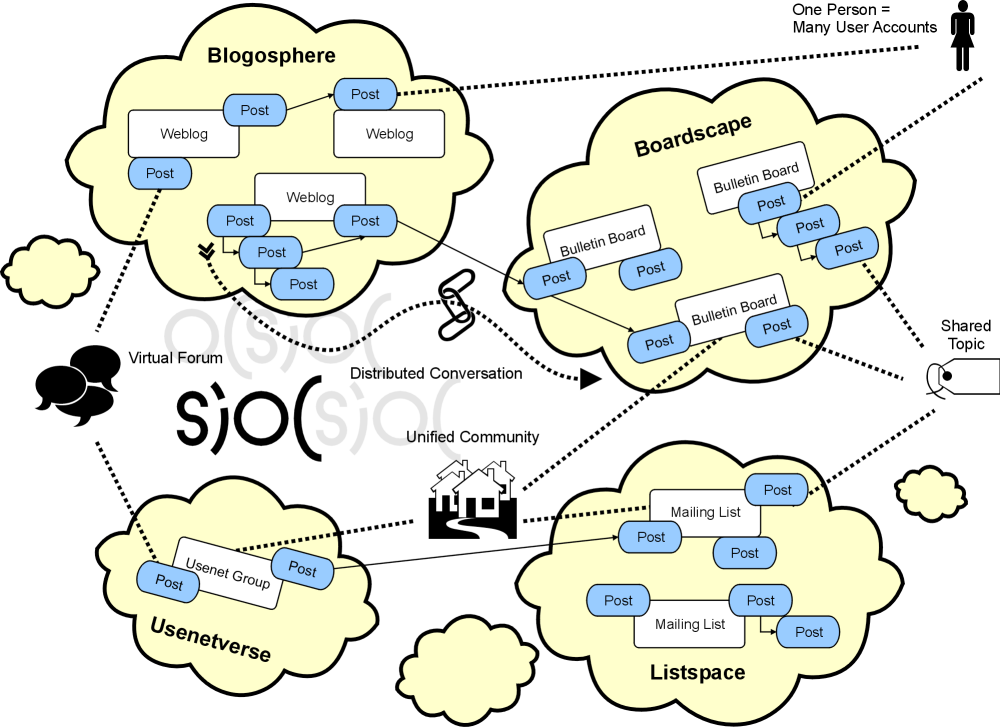
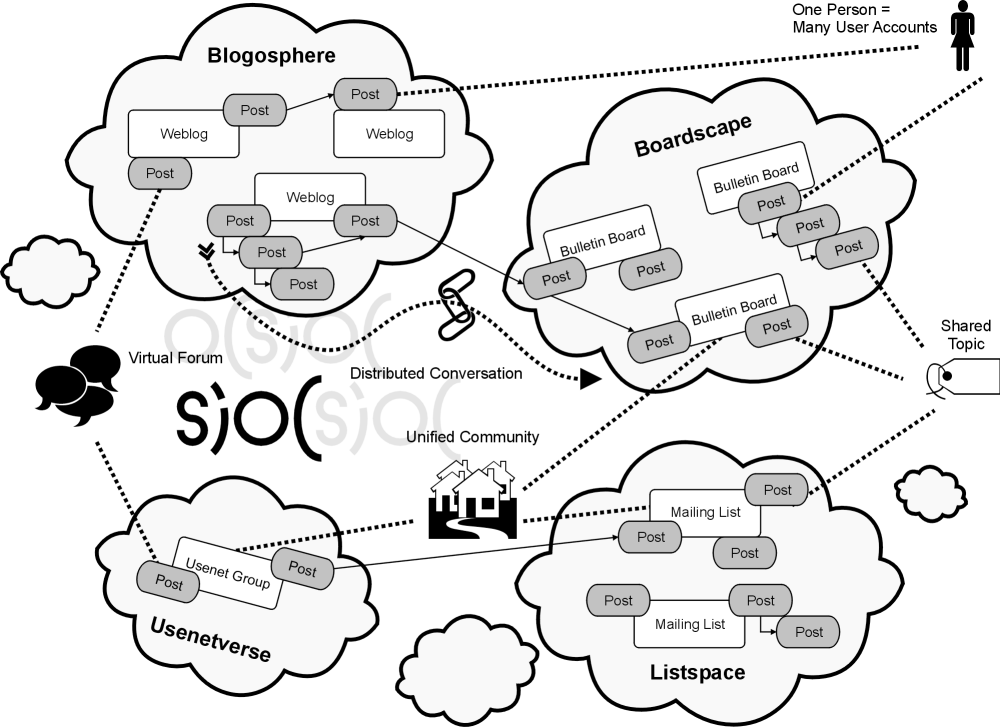
added more images

diff --git a/doc/papers/saw-2007/saw-2007.tex b/doc/papers/saw-2007/saw-2007.tex
@@ -29,6 +29,9 @@ WWW home page: \texttt{http://swaml.berlios.de/}
 
 \maketitle
 
+%TODO:
+%	- images in b/w
+
 \begin{abstract}
 
 Mailing list archives (i.e., the messages posted up-to-now) are often published 
@@ -95,6 +98,12 @@ In the SWAML project are involved several components, mainly three:
 \subsection{SWAML}
 
 FIXME
+
+\begin{figure}[ht]
+ \centering
+ \includegraphics[bb=0 0 238 200]{images/swaml-process.png}
+ \caption{SWAML core process}
+\end{figure}
 
 \subsection{Buxon}
 
